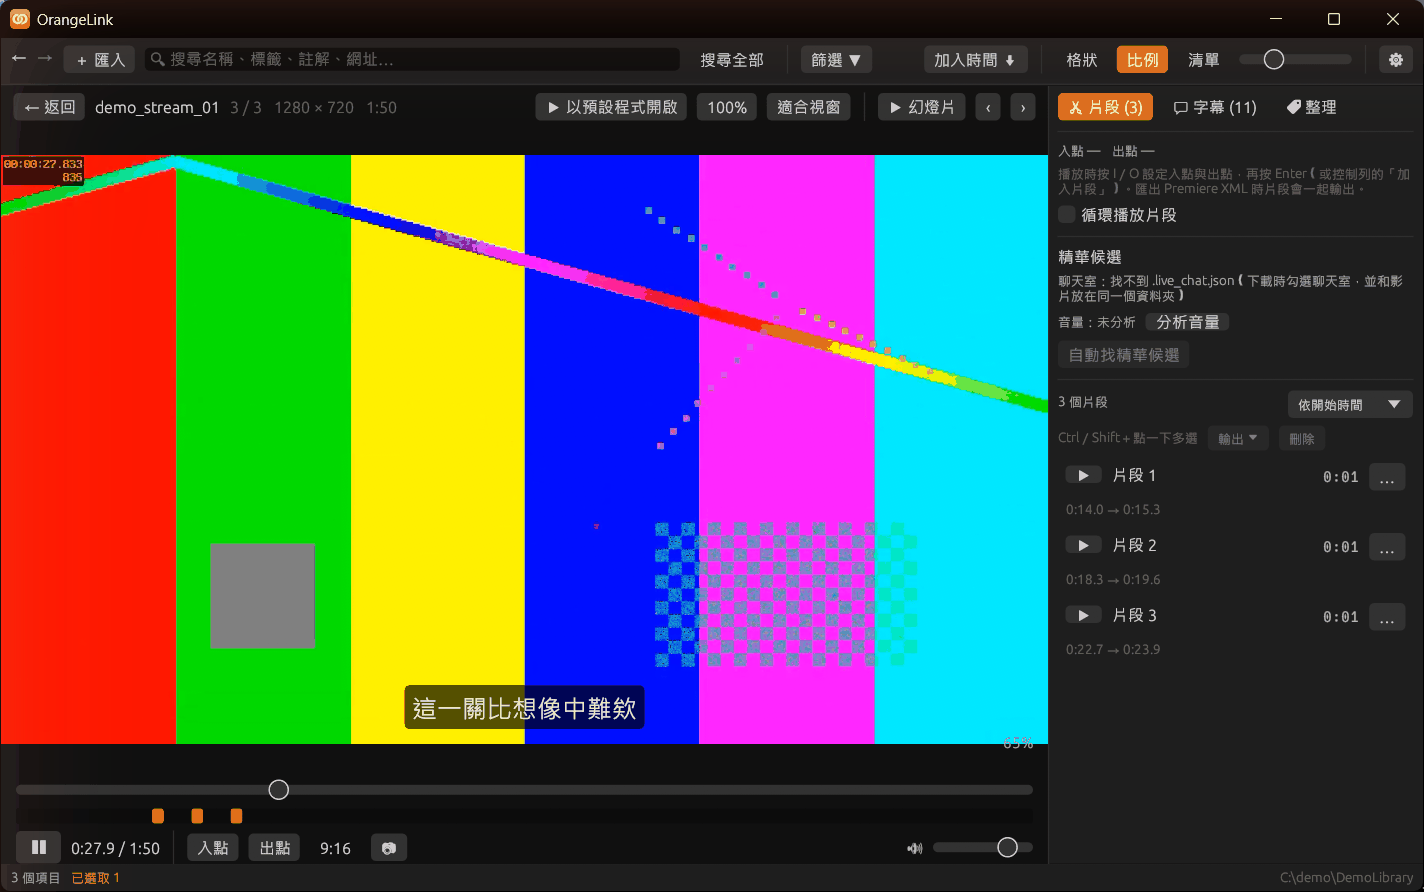
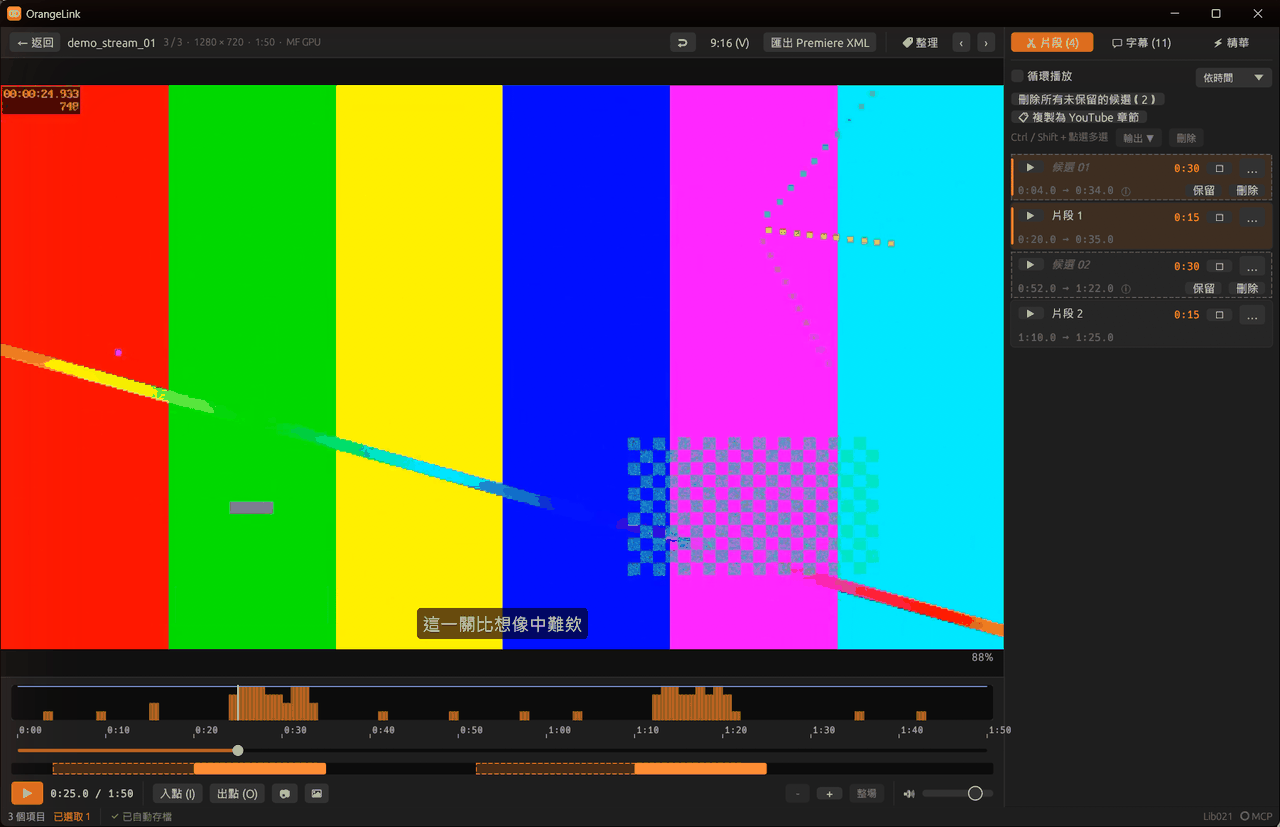
README screenshots retaken from 0.2.1, plus viewer, command palette and subtitle proofreading shots (#20)
* Refresh the README screenshots from 0.2.1 and add the viewer, command palette and subtitle proofreading shots

* README describes the 0.2.1 screenshots and shows the new viewer, command palette and subtitle proofreading images

---------

diff --git a/README.md b/README.md
@@ -4,7 +4,7 @@
 
 *OrangeLink is a Windows desktop app for organizing images, video, audio and subtitles in one library, and for turning long recordings (such as live-stream archives) into short clips. It is a single executable written in Rust with [egui](https://github.com/emilk/egui), with no installer and no database. The interface is available in Traditional Chinese, Simplified Chinese, English, Japanese and Korean; the detailed documentation is in Traditional Chinese.*
 
-![OrangeLink 主視窗：左側是類型與智慧資料夾，中間是依比例排列的圖片，右側是選取素材的評分與標籤](docs/images/hero.png)
+![OrangeLink 主視窗：左側是類型與智慧資料夾，中間是縮圖格狀檢視（縮圖右下角顯示評分），右側是選取素材的評分與標籤](docs/images/hero.png)
 
 ## 這是什麼
 
@@ -16,8 +16,6 @@ OrangeLink 是 Windows 上的素材管理與影片剪輯工作流工具。你可
 - 資源庫是純檔案結構，沒有資料庫，隨時可以備份或用其他工具讀取。
 - 語音轉文字、播放和縮圖都在本機處理；程式不會自動上傳你的素材或記錄。
 - 介面有繁體中文、简体中文、English、日本語、한국어，可隨時切換（設定 →「一般」→「語言」）。
-
-> 下面的截圖拍自較早的版本；0.2 之後介面有調整（例如剪輯工作台、檢視器的資訊面板），畫面可能和你看到的略有不同，功能說明以文字為準。
 
 ## 主要功能
 
@@ -33,6 +31,10 @@ OrangeLink 是 Windows 上的素材管理與影片剪輯工作流工具。你可
 
 ![匯入前確認：顯示 30 個檔案共 32.1 MB，可選擇存放方式、資料夾與標籤](docs/images/import-dialog.png)
 
+![圖片檢視器：右側的資訊面板可以直接評分、加標籤、放進資料夾，也列出主要色彩與檔案資訊](docs/images/viewer-info.png)
+
+![按 Ctrl + K 輸入「燈」，找到標籤「燈籠」；Enter 就切到該標籤，也能把選取的素材直接加上這個標籤](docs/images/command-palette.png)
+
 ### 搜尋
 
 名稱、標籤、註解、網址和字幕台詞都能搜尋，並支援組合條件，例如 `ext:png rating:4`、`貓 OR 狗`、`-草稿`、`dur>10m`、`w>=1920`。完整語法在程式裡按 `?` 就能看到，也列在 [docs/FEATURES.md](docs/FEATURES.md)。
@@ -47,9 +49,11 @@ OrangeLink 是 Windows 上的素材管理與影片剪輯工作流工具。你可
 - 剪輯工作台的時間軸可以縮放、捲動，有時間刻度與總覽條，長影片也好操作。
 - 按 I／O 標記入點與出點，加入片段並輸出成檔案（含 Shorts 用的直式 1080×1920 預設組）。片段可以一鍵輸出，進度與剩餘時間顯示在背景工作，輸出過的片段會打勾；也能複製成 YouTube 章節。
 
-![影片預覽：右側是字幕與片段列表，進度條下方標出片段的位置](docs/images/preview-clips.png)
+![剪輯工作台：右側是片段列表，虛線框是自動找出的精華候選（可保留或刪除）；時間軸上方是聊天室熱度，下方標出片段的位置](docs/images/preview-clips.png)
 
 ![在影片上按 I 設入點、O 設出點，再按 Enter 加入片段](docs/images/clips.gif)
+
+![字幕分頁的校對工具：可以尋找並取代、整體位移時間，也能逐句修改](docs/images/subtitle-proofread.png)
 
 ### 直播精華候選與 Premiere XML
 
@@ -65,7 +69,7 @@ OrangeLink 是 Windows 上的素材管理與影片剪輯工作流工具。你可
 
 修改每 2 秒自動存檔，並每天自動備份，可以從資源庫選單還原；資料夾結構檔損壞時會自動從備份取回。永久刪除預設只移除資源庫資料、保留你的原始檔。
 
-![資源庫選單：開啟其他資源庫、監看資料夾、找出重複、檢查資源庫、從備份還原等](docs/images/library-menu.png)
+![資源庫選單：開啟其他資源庫、監看資料夾、檢查與重新連結遺失的檔案、找出重複、檢查資源庫、從備份還原等](docs/images/library-menu.png)
 
 更多功能（PDF 預覽、全域快捷鍵、批次重新命名、使用紀錄、深色與淺色主題等）見 [docs/FEATURES.md](docs/FEATURES.md)。
 
